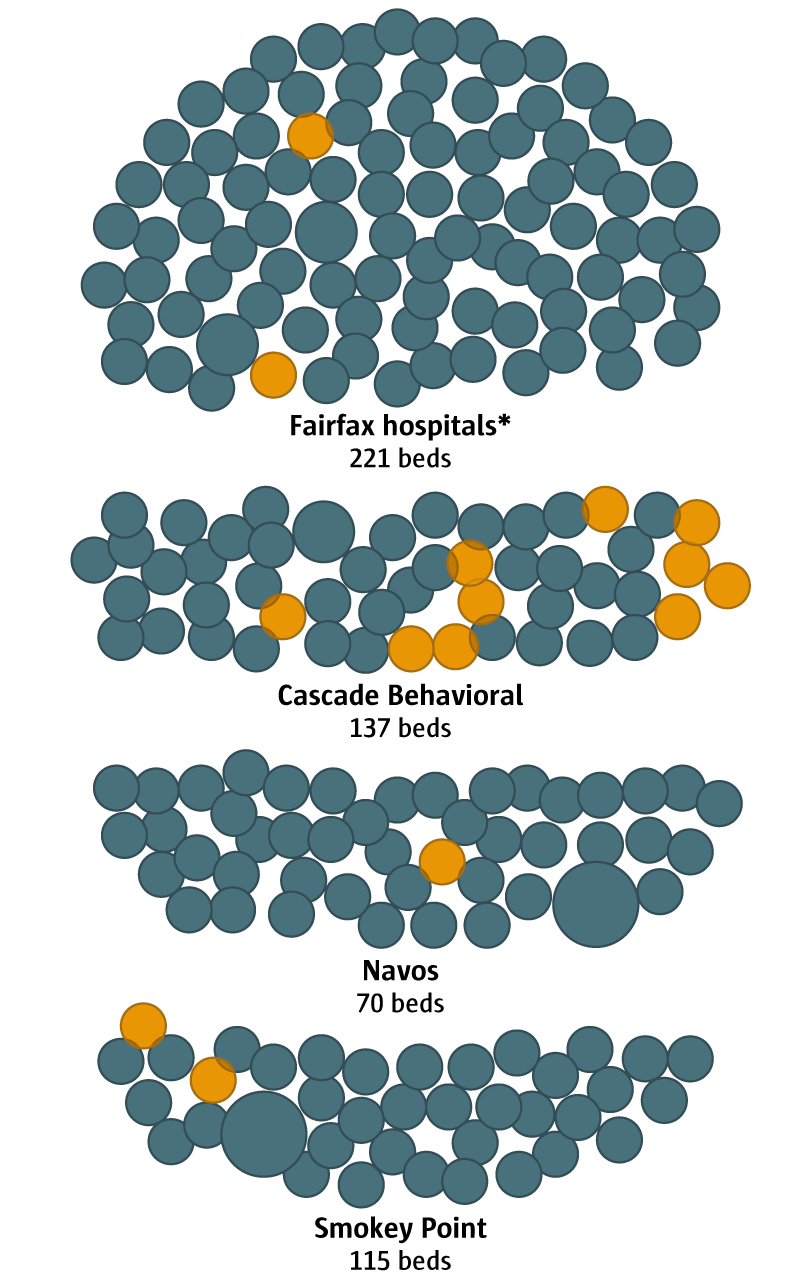
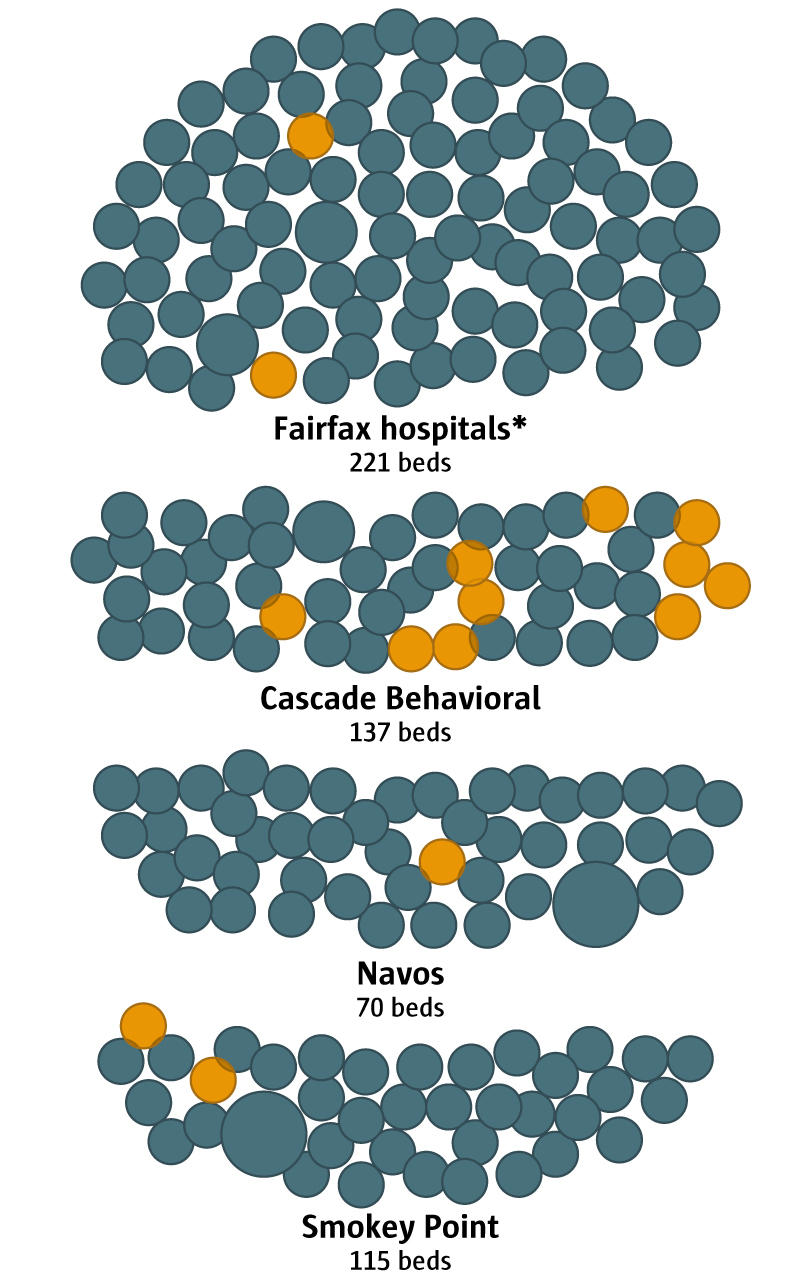
new bubble mobile styles

diff --git a/src/_bubbleChartMobile.html b/src/_bubbleChartMobile.html
@@ -33,11 +33,11 @@
         <img src="assets/photos/bubble-chart-mobile-all.jpg" id="mobile-image-all">
       </div>
 
-    <div class="source">Note: Assaults includes alleged sexual assault or sexual encounters where there was a question of consent. Also incidents at Navos are through 3/31/2018
-      <br>*Includes incidents at Fairfax hospitals in Kirkland, Everett and Monroe
-      <br>**Sudden death, injury or medication error icludes suicide, cardiac arrest, injuries that contributed to death and medication errors that required medical follow-up or were recorded on internal incident log.
-      <br>Source: Times reporting
-      <span class="credit">Graphic: Emily M. Eng / THE SEATTLE TIMES<br>Reporting: Daniel Gilbert / THE SEATTLE TIMES</span>
+      <div class="source">Note: Incidents at Navos are through 3/31/2018.
+          <br>*Includes incidents at Fairfax hospitals in Kirkland, Everett and Monroe
+          <br>**Includes sudden deaths, injuries, overdoses, sexual assaults or encounters where there was a question of consent, and medication errors that required medical follow-up or were recorded on internal incident log.
+          <br>Source: Times reporting
+          <span class="credit">Graphic: Emily M. Eng / THE SEATTLE TIMES<br>Reporting: Daniel Gilbert / THE SEATTLE TIMES</span> 
     </div>
     </div>
 

diff --git a/src/css/bubble_chart.less b/src/css/bubble_chart.less
@@ -52,6 +52,7 @@ a, a:visited, a:active {
   font-size: 18px;
   fill: @df-charcoal;
   cursor: default;
+  font-family: @df-sans;
 }
 
 .tooltip {
@@ -104,7 +105,7 @@ a, a:visited, a:active {
   }
   p {
     text-align: left;
-    font-family: @df-serif;
+    font-family: @df-sans;
 
     @media @mobile {
       font-size: 16px;
@@ -164,7 +165,6 @@ a, a:visited, a:active {
 
     @media @mobile {
       font-size: 14px;
-      margin-top: -40px;
     }
   }
 
@@ -176,6 +176,7 @@ a, a:visited, a:active {
 
     @media @mobile {
       font-size: 14px;
+      margin-top: -10px;
     }
   }
 }
@@ -187,4 +188,12 @@ a, a:visited, a:active {
 
 .four {
   width: 80px;
+
+  @media @tablet {
+    width: 70px;
+  }
+
+  @media @mobile {
+    width: 50px;
+  }
 }
